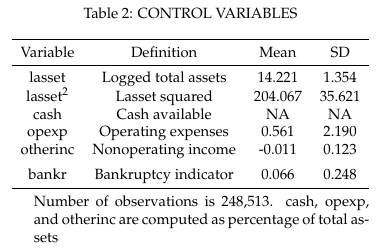
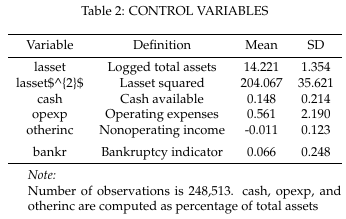
some

Changed region(s): [[0.0289, 0.137, 0.9827, 0.6575], [0.0289, 0.6575, 0.9827, 0.9863], [0.2023, 0.0274, 0.8092, 0.0822]]

diff --git a/PanalData_withIV/MianDaietal(2014)/Results/Table2.tex b/PanalData_withIV/MianDaietal(2014)/Results/Table2.tex
@@ -1,16 +1,24 @@
 \begin{table}
 \centering
-\begin{tabular}[t]{llrr}
+\caption{CONTROL VARIABLES}
+\centering
+\begin{threeparttable}
+\begin{tabular}[t]{cccc}
 \toprule
 Variable & Definition & Mean & SD\\
 \midrule
-lasset & Logged total assets & 14.2209244 & 1.3535991\\
-lasset$^{2}$ & Lasset squared & 204.0669129 & 35.6214947\\
-cash & Cash available & NA & NA\\
-opexp & Operating expenses & 0.5607617 & 2.1898591\\
-otherinc & Nonoperating income & -0.0107660 & 0.1232594\\
+lasset & Logged total assets & 14.221 & 1.354\\
+lasset\$\textasciicircum{}\{2\}\$ & Lasset squared & 204.067 & 35.621\\
+cash & Cash available & 0.148 & 0.214\\
+opexp & Operating expenses & 0.561 & 2.190\\
+otherinc & Nonoperating income & -0.011 & 0.123\\
 \addlinespace
-bankr & Bankruptcy indicator & 0.0660346 & 0.2483431\\
+bankr & Bankruptcy indicator & 0.066 & 0.248\\
 \bottomrule
 \end{tabular}
+\begin{tablenotes}
+\item \textit{Note: } 
+\item Number of observations is 248,513. cash, opexp, and otherinc are computed as percentage of total assets
+\end{tablenotes}
+\end{threeparttable}
 \end{table}
